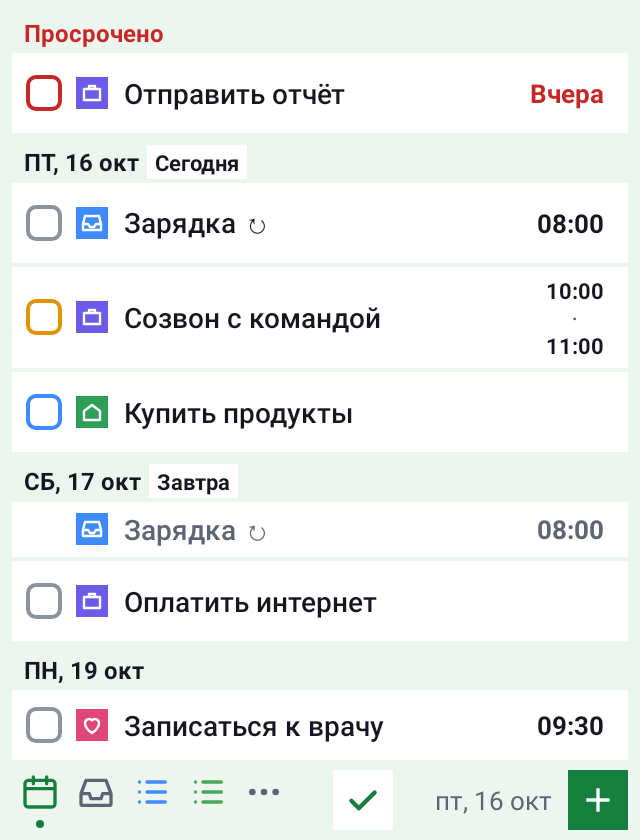
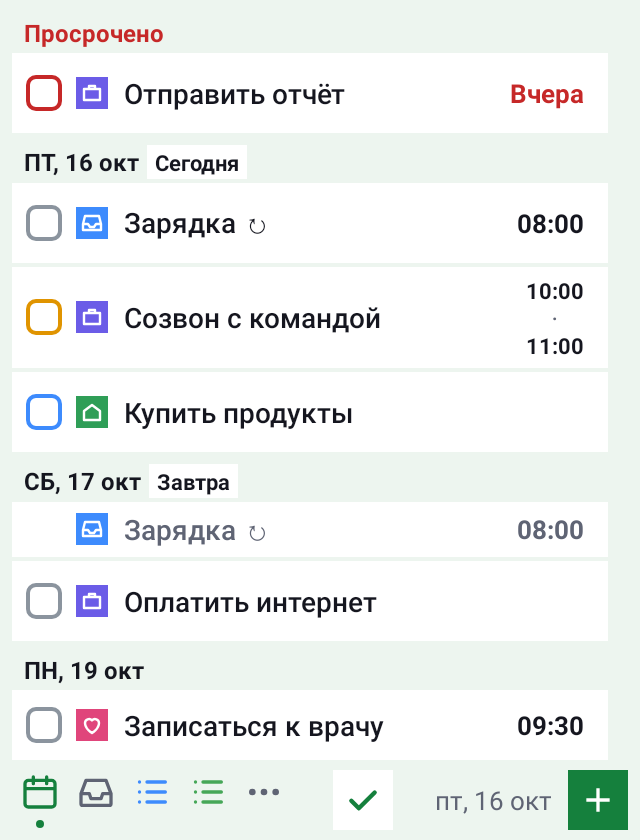
Доработка 0.19.2: линия прокрутки виджета не на времени, курсор в новом пункте чек-листа
- Виджет: справа у плашек свободная полоска, линия прокрутки лежит в ней, а не поверх времени
- Шторка новой задачи: после «Далее» и кнопки «Чек-лист» курсор и клавиатура сразу в новом пункте
- Тесты: курсор после «Далее», курсор после кнопки чек-листа

Claude-Session: https://claude.ai/code/session_01QAFyQLGgofusGNVqbtBoAp

diff --git a/app/src/test/java/com/prostovasei/simpletasks/ui/feature/task/TaskScreensUiTest.kt b/app/src/test/java/com/prostovasei/simpletasks/ui/feature/task/TaskScreensUiTest.kt
@@ -1,6 +1,9 @@
 package com.prostovasei.simpletasks.ui.feature.task
 
 import androidx.compose.runtime.Composable
+import androidx.compose.ui.test.performImeAction
+import androidx.compose.ui.test.assertIsNotFocused
+import androidx.compose.ui.test.assertIsFocused
 import androidx.compose.ui.geometry.Offset
 import androidx.compose.ui.test.click
 import androidx.compose.ui.test.performTouchInput
@@ -159,6 +162,37 @@ class TaskScreensUiTest {
             listOf<Any>(QuickAddIntent.Grid(GridAction.Resize(150)), QuickAddIntent.Grid(GridAction.MoveSlot(today.plusDays(2), 10 * 60 + 30))),
             intents.filter { it is QuickAddIntent.Grid && (it.action is GridAction.Resize || it.action is GridAction.MoveSlot) },
         )
+    }
+
+    /** Как во ViewModel: «Добавить пункт» дописывает пустой пункт в конец чек-листа. */
+    private fun statefulQuickAdd(initial: QuickAddState): androidx.compose.runtime.MutableState<QuickAddState> {
+        val state = androidx.compose.runtime.mutableStateOf(initial)
+        show {
+            QuickAddScreen(
+                state.value,
+                { if (it == QuickAddIntent.AddChecklist) state.value = state.value.copy(checklist = state.value.checklist.orEmpty() + "") },
+                {},
+                autoFocus = false,
+            )
+        }
+        return state
+    }
+
+    @Test
+    fun nextOnChecklistItemMovesCursorToNewItem() {
+        statefulQuickAdd(quickState.copy(checklist = listOf("Повестка")))
+        composeRule.onNodeWithTag("$TAG_QUICK_CHECKLIST:0").performImeAction()
+        composeRule.waitForIdle()
+        composeRule.onNodeWithTag("$TAG_QUICK_CHECKLIST:1").assertIsFocused()
+        composeRule.onNodeWithTag("$TAG_QUICK_CHECKLIST:0").assertIsNotFocused()
+    }
+
+    @Test
+    fun checklistButtonPutsCursorInFirstItem() {
+        statefulQuickAdd(quickState.copy(checklist = null))
+        composeRule.onNodeWithTag(TAG_TOOL_CHECKLIST).performClick()
+        composeRule.waitForIdle()
+        composeRule.onNodeWithTag("$TAG_QUICK_CHECKLIST:0").assertIsFocused()
     }
 
     @Test

diff --git a/app/src/main/java/com/prostovasei/simpletasks/ui/feature/task/QuickAddScreen.kt b/app/src/main/java/com/prostovasei/simpletasks/ui/feature/task/QuickAddScreen.kt
@@ -20,6 +20,8 @@ import androidx.compose.material3.TextFieldDefaults
 import androidx.compose.runtime.Composable
 import androidx.compose.runtime.LaunchedEffect
 import androidx.compose.runtime.getValue
+import androidx.compose.runtime.mutableIntStateOf
+import androidx.compose.runtime.setValue
 import androidx.compose.runtime.remember
 import androidx.compose.ui.Alignment
 import androidx.compose.ui.Modifier
@@ -71,6 +73,17 @@ fun QuickAddScreen(
             keyboard?.show()
         }
     }
+    // Новый пункт чек-листа сразу получает курсор — и после «Далее», и после кнопки «Чек-лист» на панели.
+    val checklistCount = state.checklist?.size ?: 0
+    val itemFocus = remember(checklistCount) { List(checklistCount) { FocusRequester() } }
+    var shownCount by remember { mutableIntStateOf(checklistCount) }
+    LaunchedEffect(checklistCount) {
+        if (checklistCount > shownCount) {
+            itemFocus.lastOrNull()?.requestFocus()
+            keyboard?.show()
+        }
+        shownCount = checklistCount
+    }
     TaskSheet(
         fields = state.fields,
         onGrid = { onIntent(QuickAddIntent.Grid(it)) },
@@ -109,7 +122,7 @@ fun QuickAddScreen(
                     textStyle = MaterialTheme.typography.bodyMedium,
                     imeAction = ImeAction.Next,
                     onImeAction = { onIntent(QuickAddIntent.AddChecklist) },
-                    modifier = Modifier.weight(1f).testTag("$TAG_QUICK_CHECKLIST:$index"),
+                    modifier = Modifier.weight(1f).focusRequester(itemFocus[index]).testTag("$TAG_QUICK_CHECKLIST:$index"),
                 )
                 IconButton(onClick = { onIntent(QuickAddIntent.RemoveChecklistItem(index)) }, modifier = Modifier.size(sizes.toolButton)) {
                     Icon(Icons.Default.Close, null, tint = colors.textSecondary, modifier = Modifier.size(sizes.metaIcon))

diff --git a/app/src/main/java/com/prostovasei/simpletasks/widget/TasksWidget.kt b/app/src/main/java/com/prostovasei/simpletasks/widget/TasksWidget.kt
@@ -98,7 +98,8 @@ private val WidgetDay.id: Long
 /** Блок дня (итерация 14, как в приложении): подпись дня, под ней — отдельные белые плашки задач через щель 2 dp. */
 @Composable
 private fun DayBlock(block: WidgetDayBlock, isFirst: Boolean, model: WidgetModel, days: DayNames) {
-    Column(GlanceModifier.fillMaxWidth()) {
+    // Справа — свободная полоска для линии прокрутки (она рисуется системой по краю списка).
+    Column(GlanceModifier.fillMaxWidth().padding(end = SizeTokens.WIDGET_SCROLL_GUTTER.dp)) {
         DayTitle(block.day, model.today, isFirst)
         // Одно место в колонке дня занимает подпись.
         ManyRows(block.items.withIndex().toList(), limit = MAX_CHILDREN - 1) { (index, item) ->

diff --git a/app/src/main/java/com/prostovasei/simpletasks/designsystem/tokens/DimensionTokens.kt b/app/src/main/java/com/prostovasei/simpletasks/designsystem/tokens/DimensionTokens.kt
@@ -75,6 +75,9 @@ object SizeTokens {
 
     /** Поля ленты виджета от краёв. */
     const val WIDGET_EDGE = 6
+
+    /** Свободная полоска справа у плашек: в ней системная линия прокрутки списка, а не поверх времени. */
+    const val WIDGET_SCROLL_GUTTER = 10
     const val COLOR_SWATCH = 40
     const val ICON = 24
     const val CHECKBOX_TOUCH = 40
